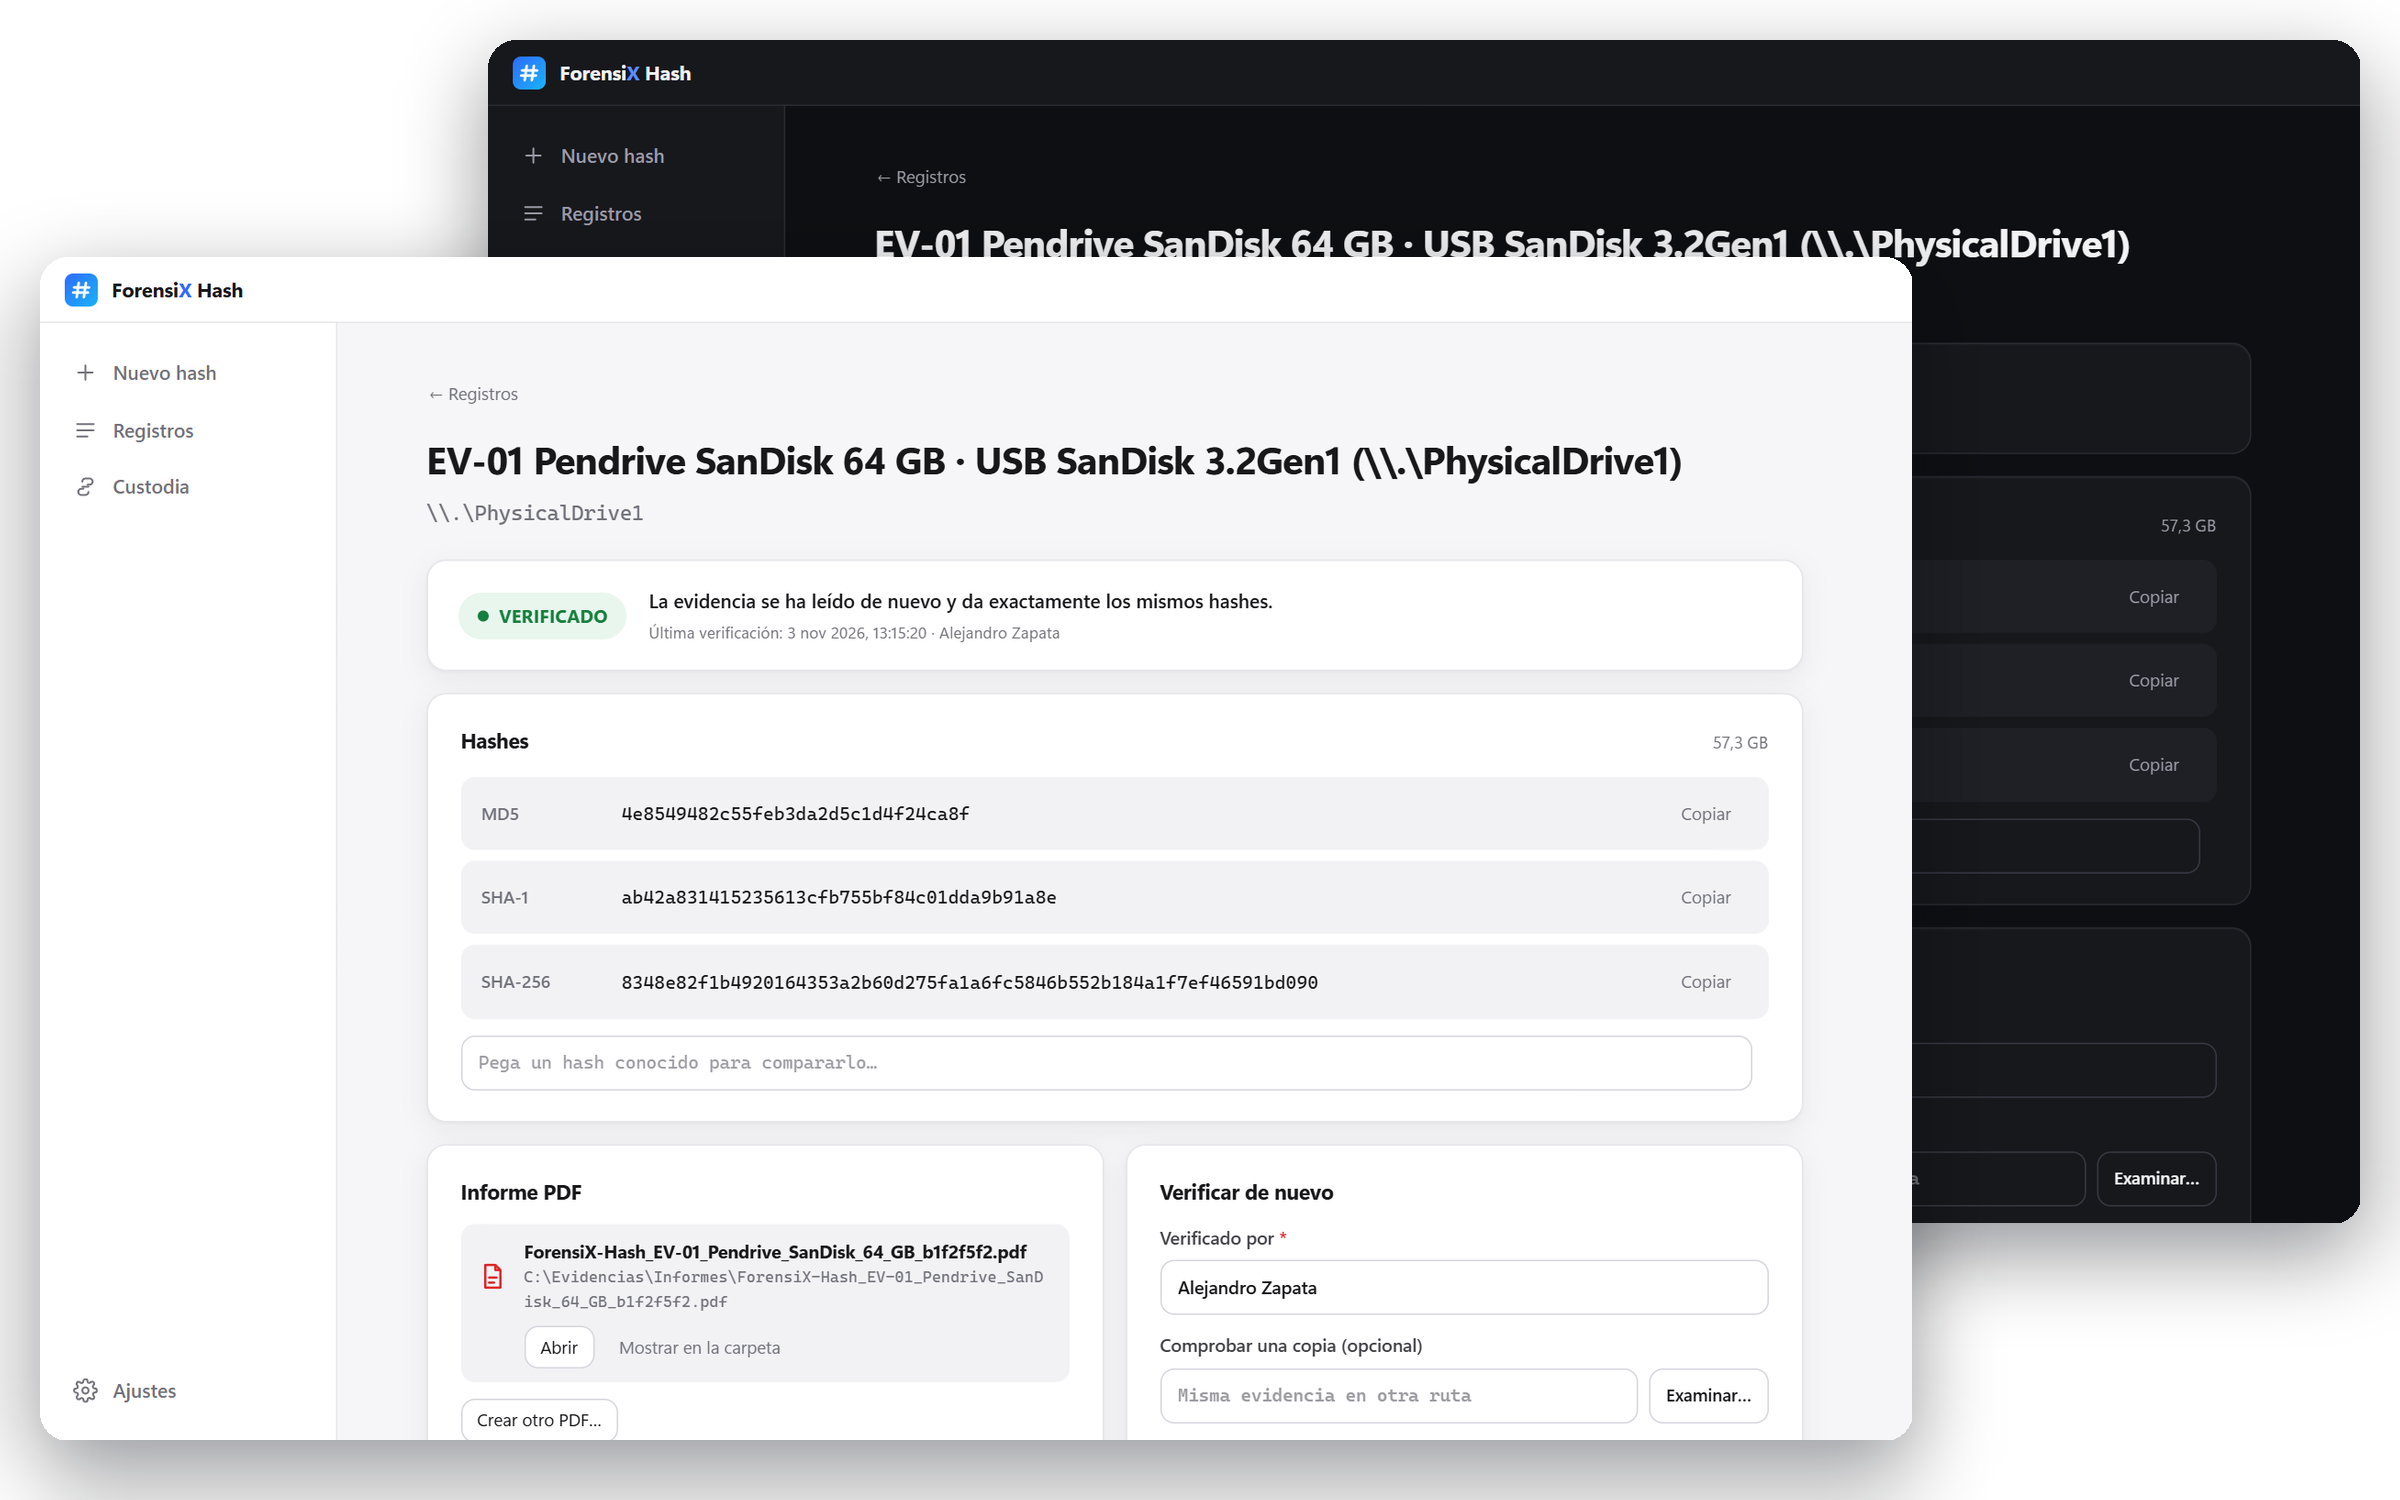
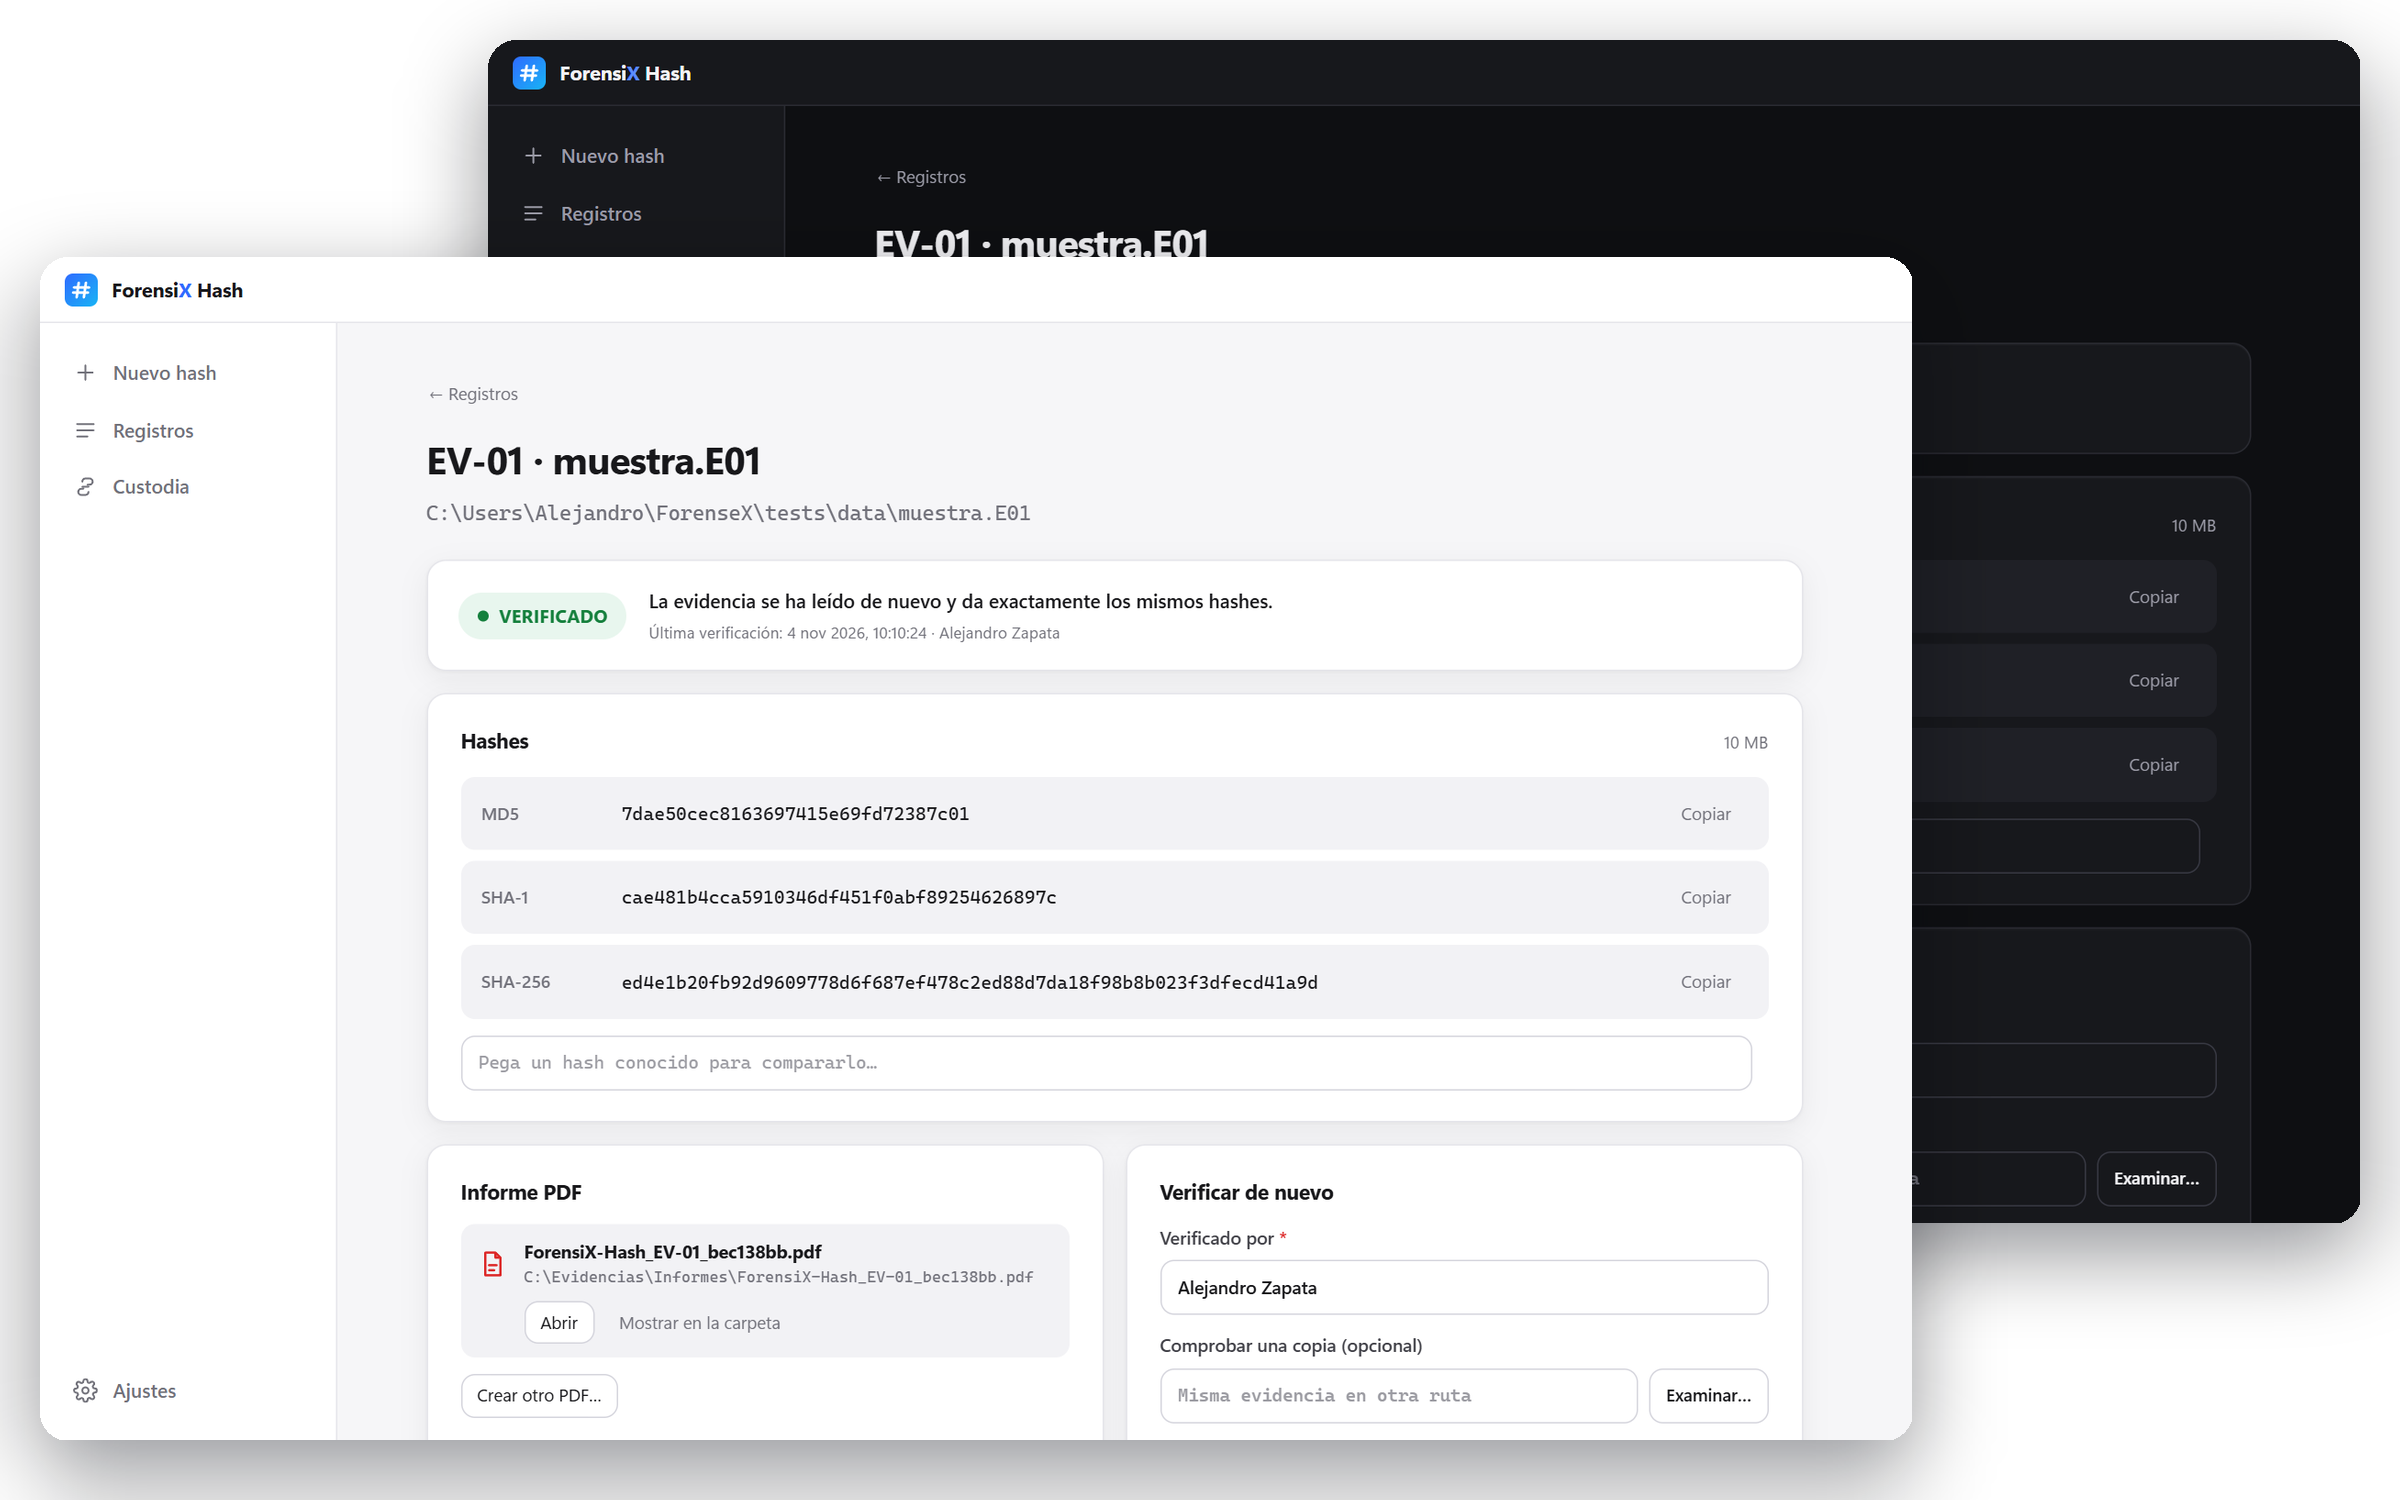
Capturas nuevas con datos de demostración y sin el nombre del equipo

diff --git a/docs/index.html b/docs/index.html
@@ -216,10 +216,10 @@
       </div>
       <div class="pair">
         <figure>
-          <img class="shot" src="capturas/resultado.png" alt="Pendrive de 64 GB verificado" loading="lazy">
+          <img class="shot" src="capturas/resultado.png" alt="Imagen E01 verificada" loading="lazy">
           <figcaption><span class="verdict ok" data-es="VERIFICADO" data-en="VERIFIED">VERIFICADO</span>
             <b data-es="Mismos hashes en la segunda lectura" data-en="Same hashes on the second read">Mismos hashes en la segunda lectura</b>
-            <span data-es="Un pendrive USB de 64 GB leído sector a sector dos veces." data-en="A 64 GB USB drive read sector by sector twice.">Un pendrive USB de 64 GB leído sector a sector dos veces.</span></figcaption>
+            <span data-es="La evidencia se lee dos veces y debe dar exactamente lo mismo." data-en="The evidence is read twice and must give exactly the same result.">La evidencia se lee dos veces y debe dar exactamente lo mismo.</span></figcaption>
         </figure>
         <figure>
           <img class="shot" src="capturas/no-coincide.png" alt="Carpeta modificada: no coincide" loading="lazy">
@@ -244,7 +244,7 @@
           <li data-es="Lleva dentro el registro firmado: se importa en otro equipo para verificar allí." data-en="It carries the signed record inside: import it on another computer to verify there.">Lleva dentro el registro firmado: se importa en otro equipo para verificar allí.</li>
         </ul>
       </div>
-      <img class="shot" src="capturas/informe.png" alt="Informe PDF de un pendrive" loading="lazy">
+      <img class="shot" src="capturas/informe.png" alt="Informe PDF de una imagen E01" loading="lazy">
     </div>
   </section>
 

diff --git a/scripts/screenshots.py b/scripts/screenshots.py
@@ -151,6 +151,11 @@ def main() -> None:
         report = browser.new_page(viewport={"width": 1000, "height": 1300}, device_scale_factor=1.5)
         report.goto(f"{args.base}/report/{args.record}")
         report.emulate_media(media="print")
+        # Sin el nombre real del equipo ni del usuario en una imagen pública
+        report.evaluate("""() => document.querySelectorAll('td').forEach(cell => {
+            const label = cell.previousElementSibling?.textContent;
+            if (['Equipo', 'Usuario del sistema'].includes(label)) cell.textContent = 'LAB-01';
+        })""")
         report.screenshot(path=OUT / "informe.png")
         browser.close()
 

diff --git a/README.md b/README.md
@@ -65,7 +65,7 @@ Un asistente de cuatro pasos y el proceso:
 
 | Verificado | No coincide |
 |---|---|
-| ![Registro verificado de un pendrive de 64 GB](docs/capturas/resultado.png) | ![Una carpeta modificada después de hashearla: NO COINCIDE](docs/capturas/no-coincide.png) |
+| ![Imagen E01 real verificada, con su informe PDF](docs/capturas/resultado.png) | ![Una carpeta modificada después de hashearla: NO COINCIDE](docs/capturas/no-coincide.png) |
 | Se vuelve a leer la evidencia y da **los mismos hashes**. | Si la evidencia cambia, la verificación lo detecta y dice **quién y cuándo** la comprobó. |
 
 <p align="center">
@@ -83,7 +83,7 @@ Un asistente de cuatro pasos y el proceso:
 |---|---|
 | ![Discos y volúmenes con modelo, nº de serie y conexión](docs/capturas/discos.png) | ![Ajustes en tema oscuro: tema, idioma y actualizaciones](docs/capturas/ajustes.png) |
 
-<sub>Pruebas reales con un pendrive USB SanDisk de 64 GB del autor; los demás datos son de demostración.</sub>
+<sub>Capturas con la imagen E01 pública `nps-2010-emails` de Digital Corpora y datos de demostración.</sub>
 
 ## Qué incluye
 
